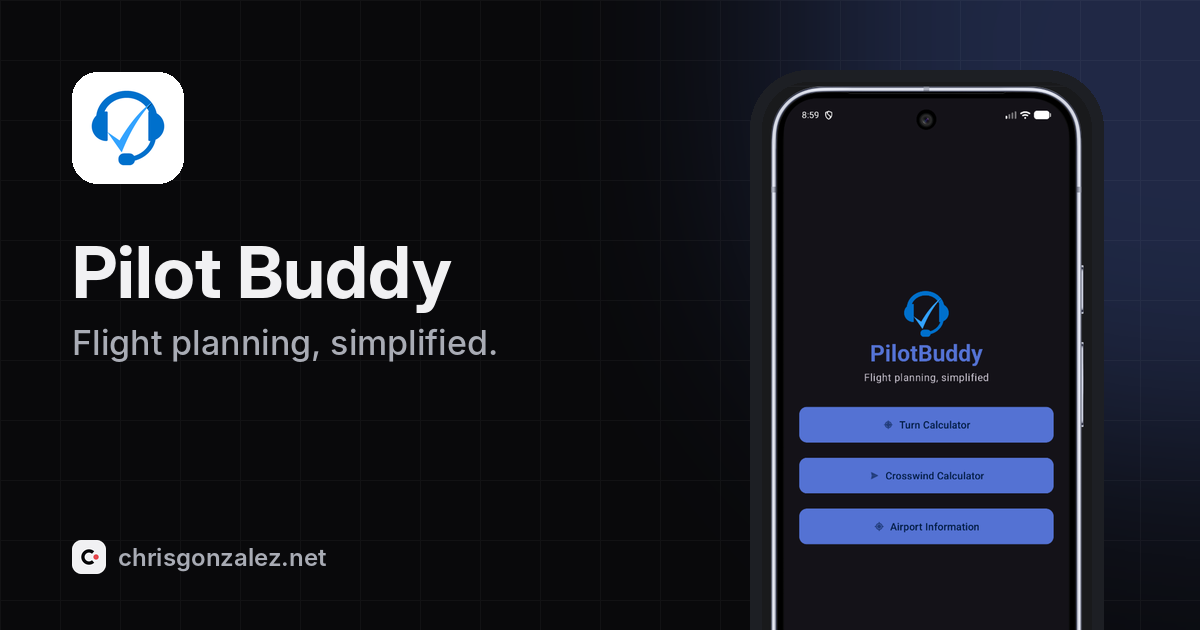
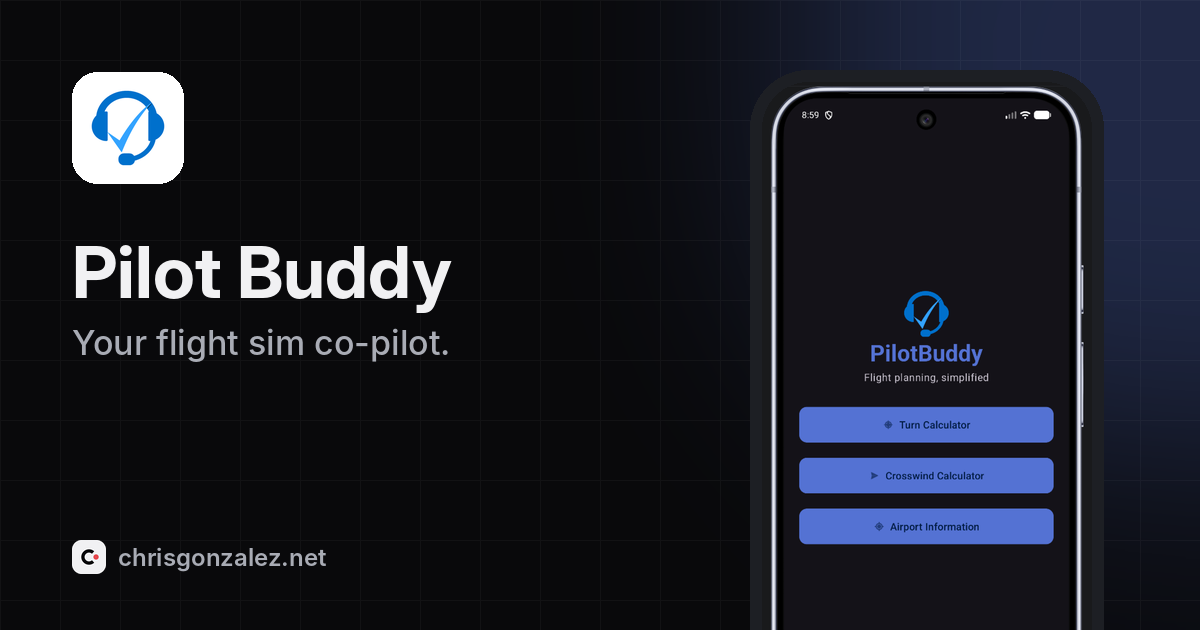
Docs: Pilot Buddy tagline, release steps and report wording
- Pilot Buddy Open Graph image: tagline "Flight planning, simplified." ->
  "Your flight sim co-pilot." to match the site and its sim-only positioning
- README: add release steps for Pilot Buddy and the ATLsim - CoPilot
  Microsoft Store link
- Project report: Pilot Buddy status wording now matches the site

Claude-Session: https://claude.ai/code/session_01UHJ6Ms8QM7QQedivTQwiah

Changed region(s): [[0.0617, 0.5127, 0.4317, 0.573]]

diff --git a/scripts/make-images.py b/scripts/make-images.py
@@ -137,7 +137,7 @@ if __name__ == "__main__":
     or_icon = PUB / "press" / "on-record" / "on-record-icon-1024.png"
     product("on-record", "On Record", "Meeting notes you can check, written with Apple Intelligence.", or_icon, CORAL,
             ASSETS / "on-record" / "iphone-summary.png", "phone")
-    product("pilot-buddy", "Pilot Buddy", "Flight planning, simplified.", PUB / "icons" / "pilot-buddy.png", (91, 123, 224),
+    product("pilot-buddy", "Pilot Buddy", "Your flight sim co-pilot.", PUB / "icons" / "pilot-buddy.png", (91, 123, 224),
             ASSETS / "pilot-buddy" / "home-dark.png", "phone")
     product("atlsim-copilot", "ATLsim – CoPilot", "Voice-controlled checklists for your flight simulator.",
             PUB / "icons" / "atlsim-copilot.png", (45, 140, 255), ASSETS / "atlsim-copilot" / "run-checklist.png", "window")

diff --git a/docs/PROJECT-REPORT.md b/docs/PROJECT-REPORT.md
@@ -22,6 +22,9 @@ section is current.
   "Coming soon".
 
 **Pilot Buddy** (site updated 2026-10-28, PR #3)
+- Open Graph image tagline changed from "Flight planning, simplified." to the site tagline "Your
+  flight sim co-pilot." on 2026-11-05. The app's own home screen (shown in the image and screenshots)
+  still reads "Flight planning, simplified."; change it in the app if you want them to match.
 - Now **iPhone, iPad and Android**, with an App Store record (id6828184019). Finding 1 in section 1
   ("Pilot Buddy is an Android app") is out of date. Status: "Coming soon to the App Store and
   Google Play".
@@ -253,7 +256,7 @@ Legend: ✅ done on the site · ⏳ pending (Chris) · ◻ conditionally require
 | **O-3** | **Enter the three URLs in App Store Connect** (both iOS and macOS versions) and publish App Privacy. | Required before submitting On Record 1.0. |
 | O-4 | Review copy that speaks for you: the About page, the homepage "About the developer" section and the three principles. They use only what the repositories show; add background, location, photo or LinkedIn if you want them. | The brief asked for no invented credentials, so the bio is deliberately modest. |
 | **O-5** | **CoPilot's web service** (cloud sharing is still offered, off by default): `chrisgonzalez.net/CoPilotChecklistWS/Copilot-checklist.asmx` cannot run on GitHub Pages. Before pointing the domain at Pages, host the service on a subdomain (e.g. `api.chrisgonzalez.net`) and ship an app update with the new endpoint. Also point the app's privacy link to `/apps/atlsim-copilot/privacy/` and the Store listing's privacy URL to the same page. | Users who turn cloud sharing on would get errors once the domain moves. |
-| O-6 | Pilot Buddy: decide on Google Play; if yes, change the application ID and complete the Data safety form. Site status says "Not yet on Google Play". | Avoids promising a release that isn't planned. |
+| O-6 | Pilot Buddy: decide on Google Play; if yes, change the application ID and complete the Data safety form. Site status now says "Coming soon to the App Store and Google Play" (iOS added 2026-10-28). | Avoids promising a release that isn't planned. |
 | O-7 | Pilot Buddy and CoPilot use the same headset logo. Consider a distinct icon for one of them. | Product recognition. |
 | O-8 | Legal review of the three product privacy policies, site privacy/cookie policies and terms. They are written from verified app behaviour but are not legal advice. | Requested by the brief. |
 | O-9 | On release day: set On Record `status: 'available'` and its store URL; add Apple's official badge; post an update. | See README → "On Record goes live". |

diff --git a/README.md b/README.md
@@ -56,6 +56,13 @@ button, the structured data and the press kit update automatically. To show Appl
 badge, download it unmodified from Apple's marketing tools into `public/badges/app-store.svg` and
 add `'app-store'` to `OFFICIAL_BADGES` in `src/components/StoreButtons.astro`.
 
+**Pilot Buddy goes live.** In `src/config/apps.ts`, on the `pilot-buddy` entry set the App Store
+`url: 'https://apps.apple.com/app/id6828184019'` and/or the Google Play `url`, then set `status: 'available'`
+and update `statusNote` (it currently says "Coming soon to the App Store and Google Play").
+
+**ATLsim – CoPilot store link.** Paste the Microsoft Store listing URL into the `atlsim-copilot` store
+entry in `src/config/apps.ts` to turn "Available on the Microsoft Store" into a download button.
+
 **Add a new app.** Add an entry to `apps` in `src/config/apps.ts`, put its screenshots in
 `src/assets/apps/<slug>/`, its icon in `public/icons/`, and its privacy policy in
 `src/content/privacy/<slug>.md`. The product page, support page, privacy page, cards, footer
